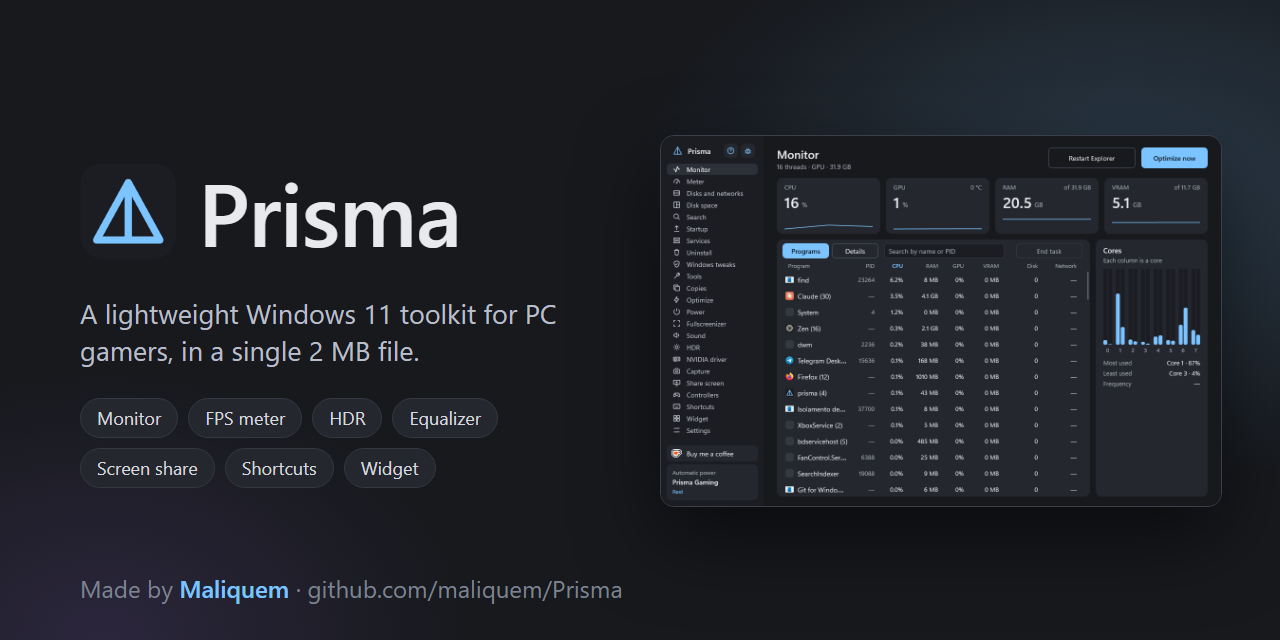
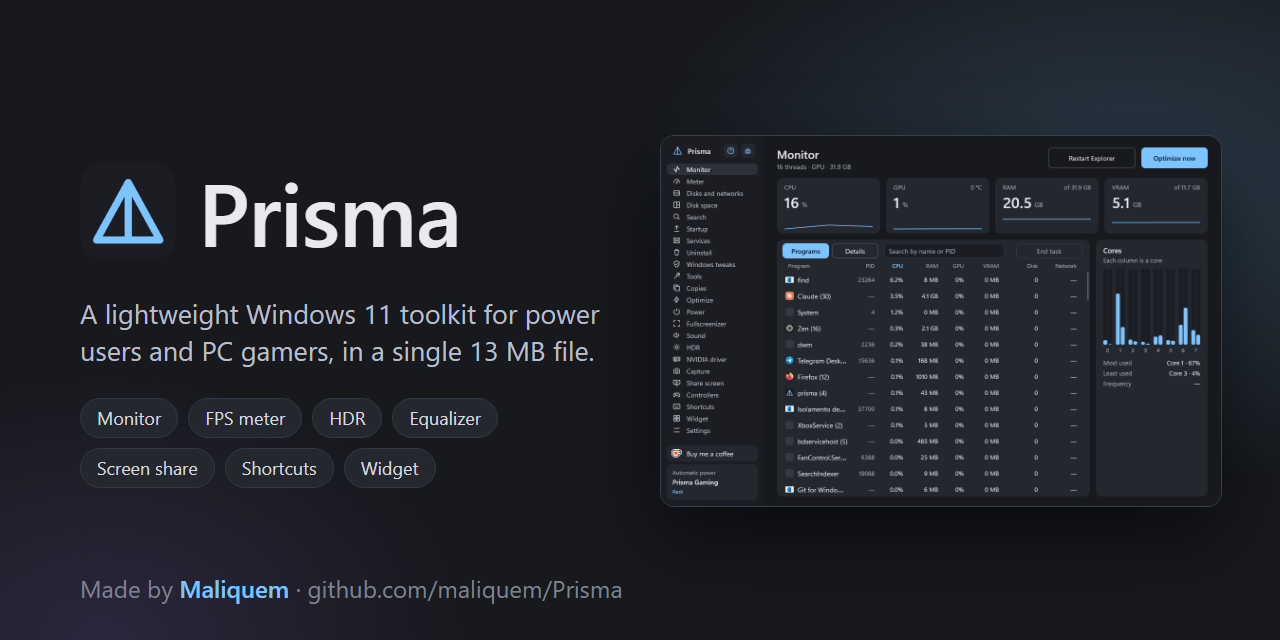
docs: Prisma tem 13 MB e é para power users e gamers

Changed region(s): [[0.0625, 0.4688, 0.4688, 0.5938]]

diff --git a/README.ru.md b/README.ru.md
@@ -2,7 +2,7 @@
 
 [English](README.md) · [Português (Brasil)](README.pt-BR.md) · [Español](README.es.md) · **Русский** · [简体中文](README.zh-CN.md)
 
-Лёгкая утилита для Windows 11, целиком написанная на Rust без UI-фреймворка. Живёт в трее, загружает только то, что используется, и умещается в один файл размером 2 МБ. Заменяет диспетчер задач и собирает вместе мелкие инструменты, которые компьютерные игроки обычно ищут по одному.
+Лёгкая утилита для Windows 11, целиком написанная на Rust без UI-фреймворка. Живёт в трее, загружает только то, что используется, и умещается в один файл размером 13 МБ. Заменяет диспетчер задач и собирает вместе мелкие инструменты, которые опытные пользователи и компьютерные игроки обычно ищут по одному.
 
 **[Скачать последнюю версию](https://github.com/maliquem/Prisma/releases/latest)** · **[Руководство: все функции (на английском)](docs/guide/GUIDE.md)**
 

diff --git a/README.es.md b/README.es.md
@@ -2,7 +2,7 @@
 
 [English](README.md) · [Português (Brasil)](README.pt-BR.md) · **Español** · [Русский](README.ru.md) · [简体中文](README.zh-CN.md)
 
-Una utilidad ligera para Windows 11, escrita entera en Rust sin framework de interfaz. Vive en la bandeja, carga solo lo que está en uso y cabe en un único archivo de 2 MB. Sustituye al Administrador de tareas y reúne las pequeñas herramientas que quien juega en PC suele juntar una a una.
+Una utilidad ligera para Windows 11, escrita entera en Rust sin framework de interfaz. Vive en la bandeja, carga solo lo que está en uso y cabe en un único archivo de 13 MB. Sustituye al Administrador de tareas y reúne las pequeñas herramientas que los usuarios avanzados y quienes juegan en PC suelen juntar una a una.
 
 **[Descargar la última versión](https://github.com/maliquem/Prisma/releases/latest)** · **[Guía: cada función explicada (en inglés)](docs/guide/GUIDE.md)**
 

diff --git a/README.zh-CN.md b/README.zh-CN.md
@@ -2,7 +2,7 @@
 
 [English](README.md) · [Português (Brasil)](README.pt-BR.md) · [Español](README.es.md) · [Русский](README.ru.md) · **简体中文**
 
-一款轻量的 Windows 11 实用工具，完全用 Rust 编写，不依赖任何界面框架。它常驻托盘，只加载正在使用的部分，整个程序只有一个 2 MB 的文件。它可以代替任务管理器，并把电脑玩家通常要一个个收集的小工具集中在一起。
+一款轻量的 Windows 11 实用工具，完全用 Rust 编写，不依赖任何界面框架。它常驻托盘，只加载正在使用的部分，整个程序只有一个 13 MB 的文件。它可以代替任务管理器，并把高级用户和电脑玩家通常要一个个收集的小工具集中在一起。
 
 **[下载最新版本](https://github.com/maliquem/Prisma/releases/latest)** · **[指南：每项功能的说明（英文）](docs/guide/GUIDE.md)**
 

diff --git a/README.pt-BR.md b/README.pt-BR.md
@@ -2,7 +2,7 @@
 
 [English](README.md) · **Português (Brasil)** · [Español](README.es.md) · [Русский](README.ru.md) · [简体中文](README.zh-CN.md)
 
-Utilitário leve para Windows 11, todo em Rust, sem framework de interface. Fica na bandeja, só carrega o que está em uso e cabe em um único arquivo de 2 MB. Substitui o Gerenciador de Tarefas e reúne as pequenas ferramentas que quem joga no PC costuma juntar uma a uma.
+Utilitário leve para Windows 11, todo em Rust, sem framework de interface. Fica na bandeja, só carrega o que está em uso e cabe em um único arquivo de 13 MB. Substitui o Gerenciador de Tarefas e reúne as pequenas ferramentas que power users e quem joga no PC costumam juntar uma a uma.
 
 **[Baixar a versão mais recente](https://github.com/maliquem/Prisma/releases/latest)** · **[Guia: todas as funções explicadas](docs/guide/GUIA.md)**
 

diff --git a/README.md b/README.md
@@ -2,7 +2,7 @@
 
 **English** · [Português (Brasil)](README.pt-BR.md) · [Español](README.es.md) · [Русский](README.ru.md) · [简体中文](README.zh-CN.md)
 
-A lightweight utility for Windows 11, written entirely in Rust with no UI framework. It sits in the tray, loads only what is in use and fits in a single 2 MB file. It replaces Task Manager and brings together the small tools a PC gamer usually collects one by one.
+A lightweight utility for Windows 11, written entirely in Rust with no UI framework. It sits in the tray, loads only what is in use and fits in a single 13 MB file. It replaces Task Manager and brings together the small tools that power users and PC gamers usually collect one by one.
 
 **[Download the latest version](https://github.com/maliquem/Prisma/releases/latest)** · **[Guide: every feature explained](docs/guide/GUIDE.md)**
 
